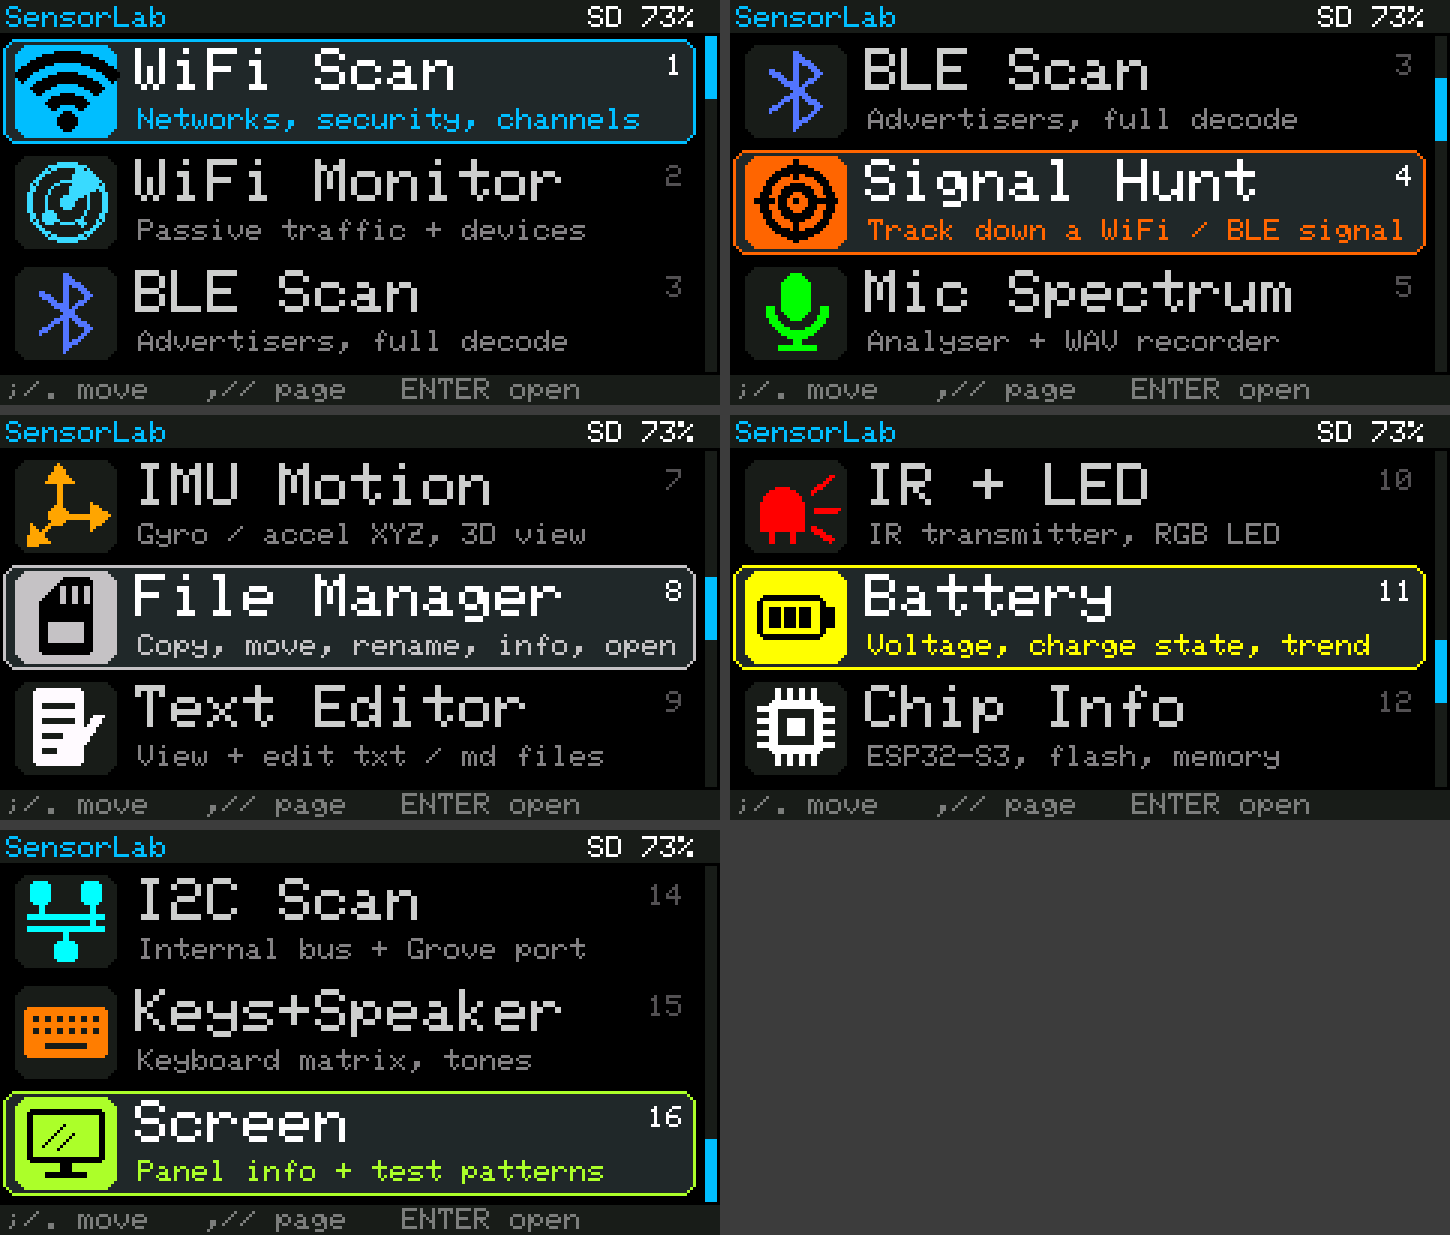
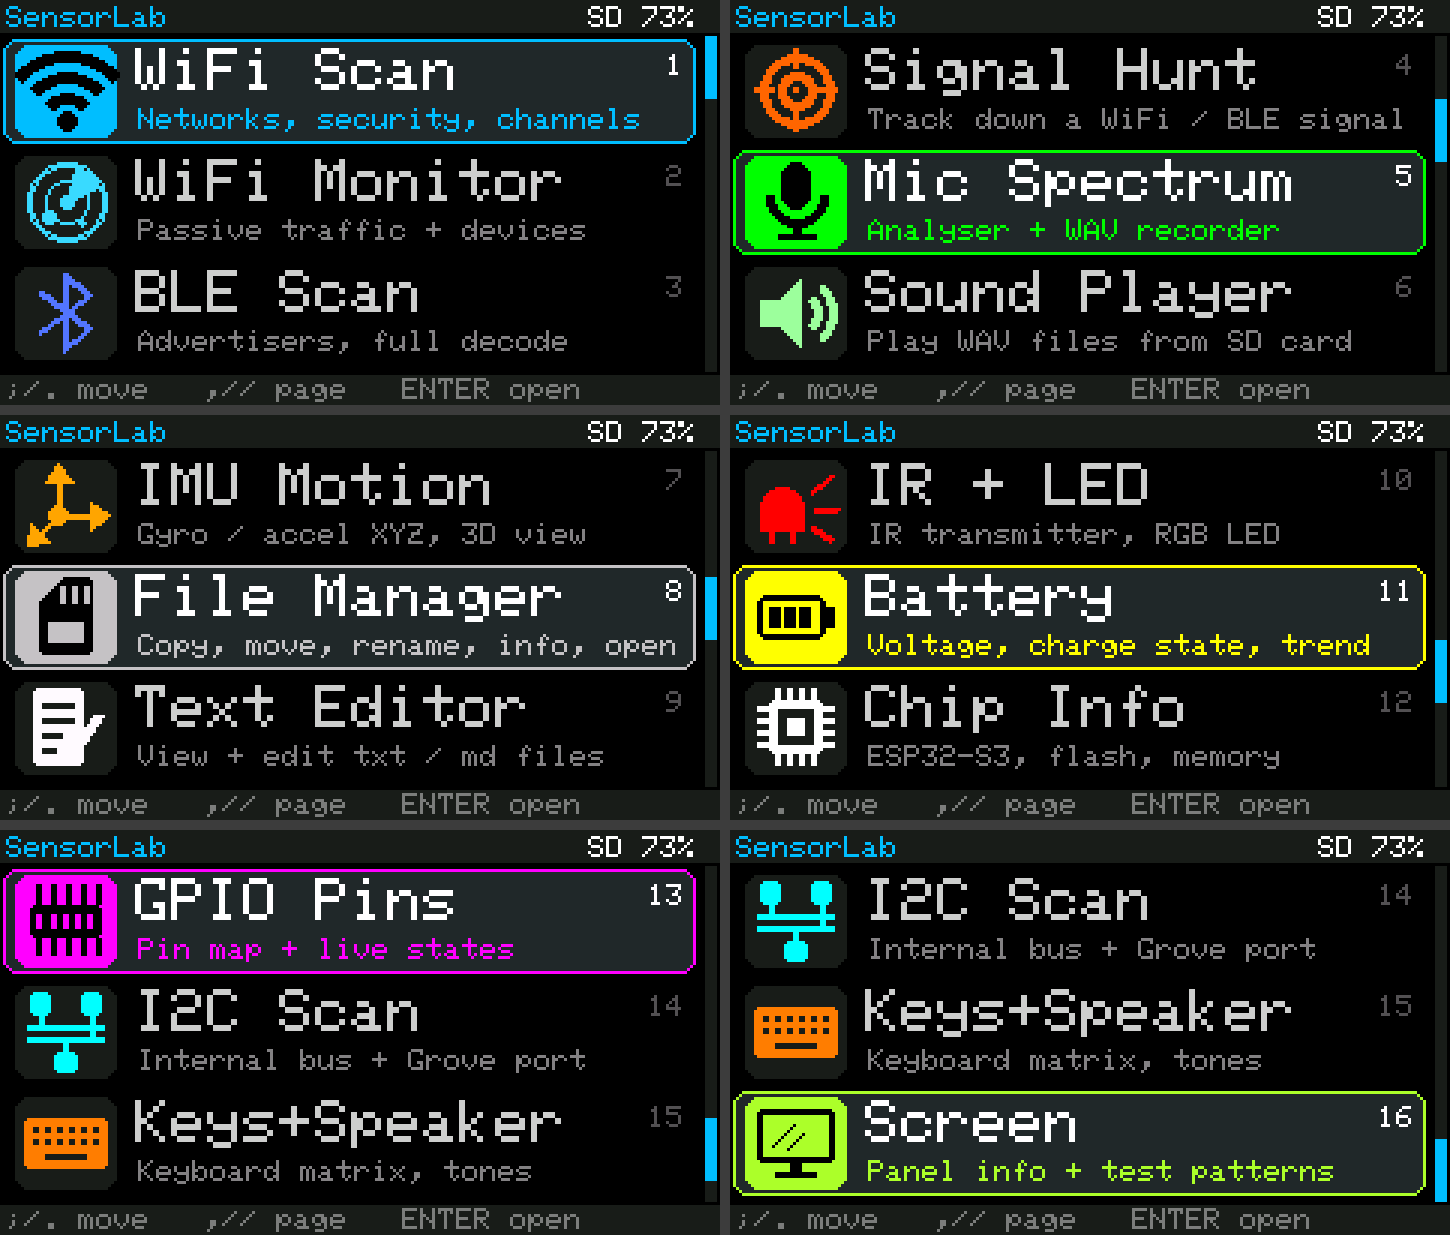
Add device photos to the README and show all 16 tools in the menu image
- Screenshots section with 18 photos of the firmware on a Cardputer ADV;
  network names and identifiable BLE entries are blurred, and the images
  are re-encoded crops without the original photo metadata
- Menu image now has six pages so every tool, including GPIO Pins, appears

Claude-Session: https://claude.ai/code/session_01F3EobHvwfT2z85Vvt1gmHb

Changed region(s): [[0.0, 0.6462, 1.0, 1.0], [0.4966, 0.0308, 0.9931, 0.3077], [0.9621, 0.0615, 1.0, 0.1538]]

diff --git a/preview/preview.cpp b/preview/preview.cpp
@@ -19,9 +19,9 @@ int main(int argc, char** argv) {
   cv.setColorDepth(16);
   cv.createSprite(240, 135);
   cv.setFont(&fonts::Font0);
-  int tops[] = {0, 2, 6, 9, 13};
-  int sels[] = {0, 3, 7, 10, 15};
-  for (int i = 0; i < 5; i++) {
+  int tops[] = {0, 3, 6, 9, 12, 13};          // six pages cover all 16 items
+  int sels[] = {0, 4, 7, 10, 12, 15};
+  for (int i = 0; i < 6; i++) {
     cv.fillSprite(0);
     cv.fillRect(0, 0, 240, 11, 0x18E3);
     cv.setTextSize(1); cv.setTextColor(0x05FF); cv.setCursor(2, 2); cv.print("SensorLab");

diff --git a/README.md b/README.md
@@ -14,8 +14,30 @@ installs from the SD card with [M5Launcher](https://github.com/bmorcelli/Launche
 - Data you capture is saved to the SD card as CSV, WAV or text
 - No account, no internet connection, no configuration
 
+## Screenshots
+
+Photos of SensorLab running on a Cardputer ADV.
+
+| | | |
+|:---:|:---:|:---:|
+| <img src="docs/screens/wifi-scan.jpg" width="260" alt="WiFi Scan (network names blurred)"> | <img src="docs/screens/wifi-channels.jpg" width="260" alt="WiFi channel occupancy"> | <img src="docs/screens/wifi-monitor.jpg" width="260" alt="WiFi Monitor"> |
+| WiFi Scan (network names blurred) | WiFi channel occupancy | WiFi Monitor |
+| <img src="docs/screens/ble-scan.jpg" width="260" alt="BLE Scan"> | <img src="docs/screens/signal-hunt.jpg" width="260" alt="Signal Hunt"> | <img src="docs/screens/mic-spectrum.jpg" width="260" alt="Mic Spectrum"> |
+| BLE Scan | Signal Hunt | Mic Spectrum |
+| <img src="docs/screens/mic-spectrogram.jpg" width="260" alt="Spectrogram"> | <img src="docs/screens/sound-player.jpg" width="260" alt="Sound Player"> | <img src="docs/screens/imu-attitude.jpg" width="260" alt="IMU attitude"> |
+| Spectrogram | Sound Player | IMU attitude |
+| <img src="docs/screens/imu-bars.jpg" width="260" alt="IMU bars"> | <img src="docs/screens/file-manager.jpg" width="260" alt="File Manager"> | <img src="docs/screens/text-editor.jpg" width="260" alt="Text Editor"> |
+| IMU bars | File Manager | Text Editor |
+| <img src="docs/screens/ir-led.jpg" width="260" alt="IR + LED"> | <img src="docs/screens/battery-charging.jpg" width="260" alt="Battery"> | <img src="docs/screens/chip-info.jpg" width="260" alt="Chip Info"> |
+| IR + LED | Battery | Chip Info |
+| <img src="docs/screens/gpio-pins.jpg" width="260" alt="GPIO Pins"> | <img src="docs/screens/i2c-scan.jpg" width="260" alt="I2C Scan"> | <img src="docs/screens/keys.jpg" width="260" alt="Keys + Speaker"> |
+| GPIO Pins | I2C Scan | Keys + Speaker |
+
+Some photos were taken with earlier versions, so small details differ from the current release.
+
 ## Contents
 
+- [Screenshots](#screenshots)
 - [Hardware](#hardware)
 - [Install](#install)
 - [Controls](#controls)
